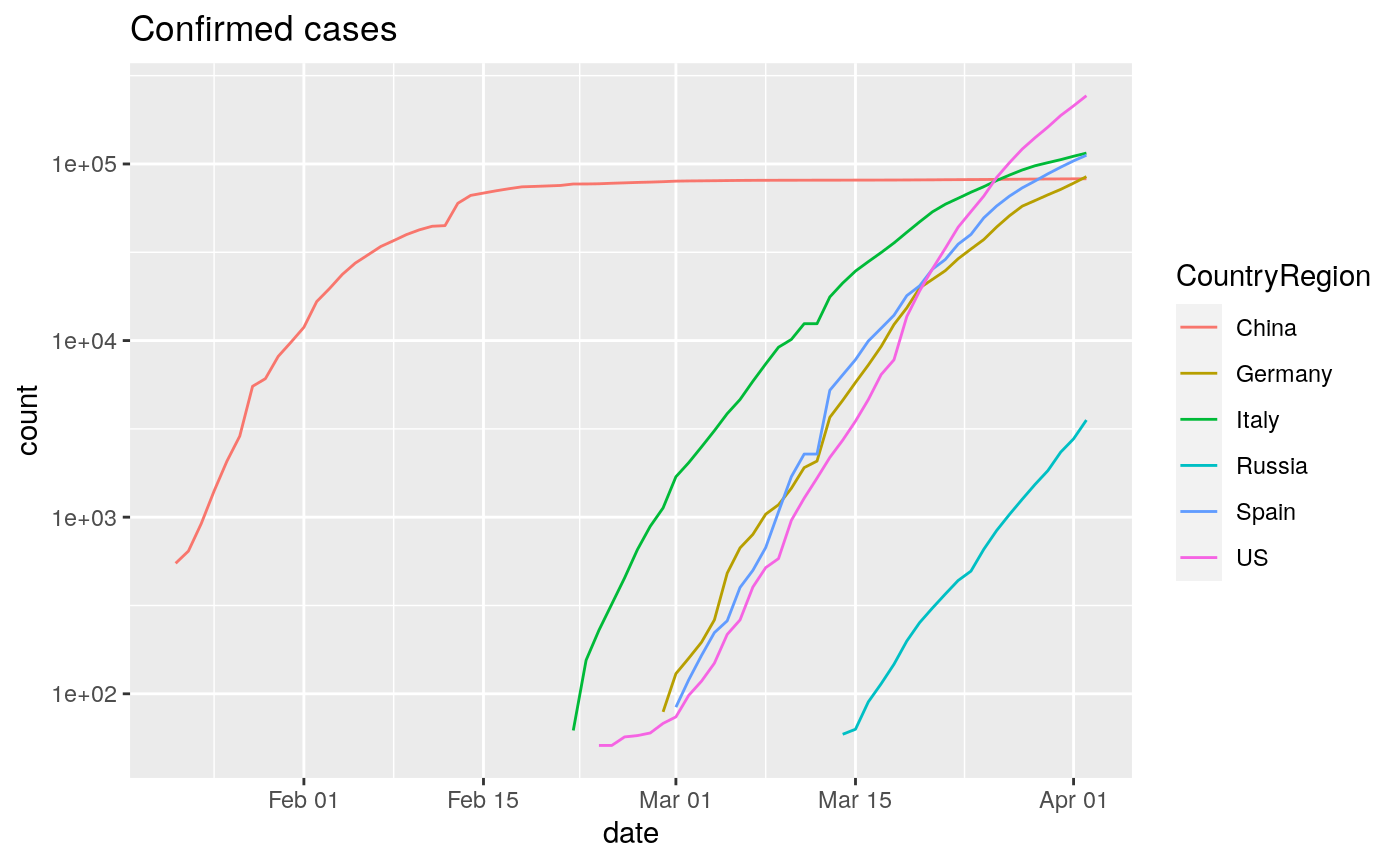
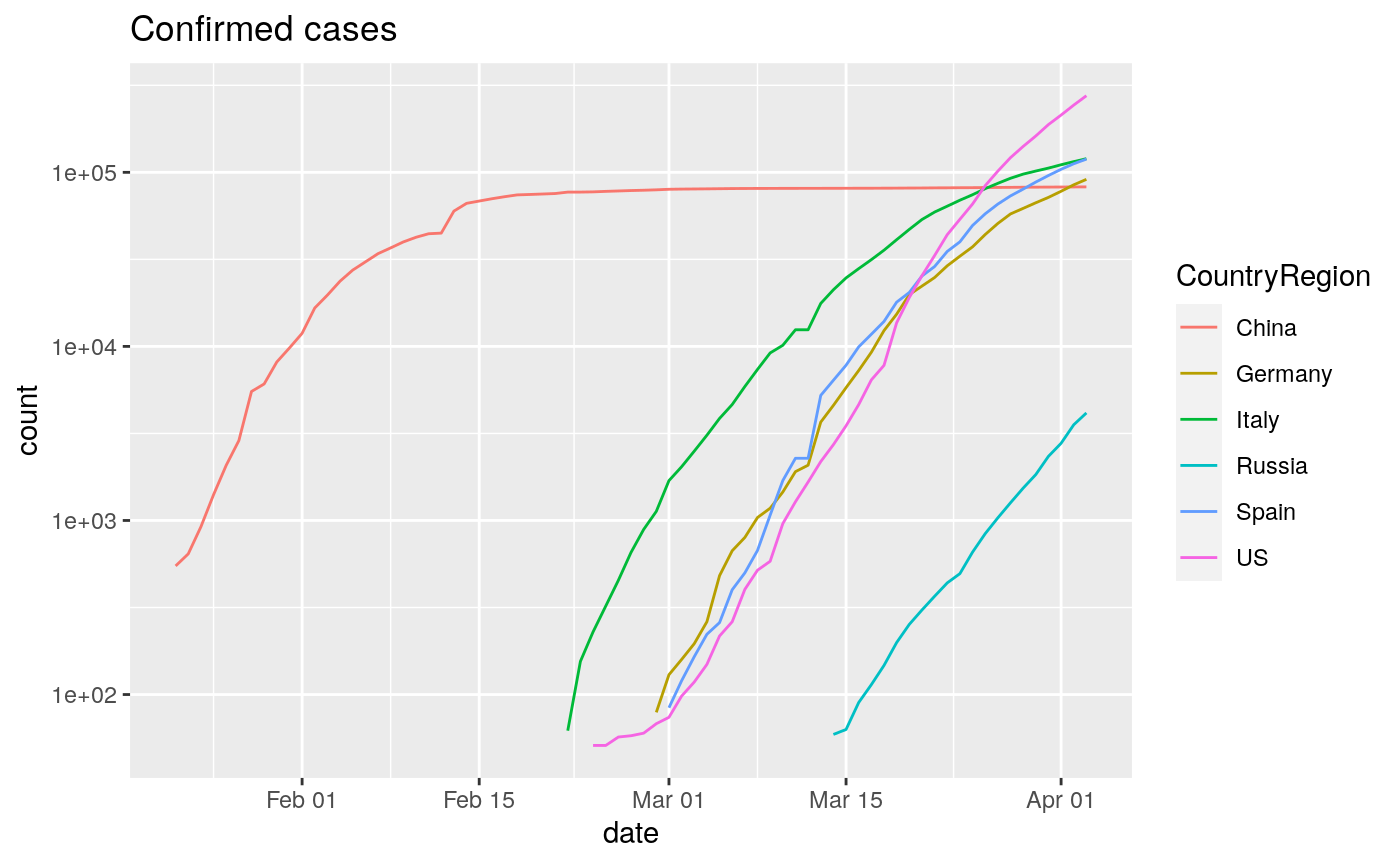
Deploying to gh-pages from  @ 26e2b4216f10156cb2ab0a62c18fc1f13a253ff0 🚀

diff --git a/articles/sars2pack.html b/articles/sars2pack.html
@@ -86,7 +86,7 @@
       <h1 data-toc-skip>Exploring the COVID-19 pandemic using sars2pack</h1>
                         <h4 class="author">Sean Davis <a href="mailto:seandavi@gmail.com" class="email">seandavi@gmail.com</a> and Vincent J. Carey, stvjc at channing.harvard.edu</h4>
             
-            <h4 class="date">April 03, 2020</h4>
+            <h4 class="date">April 04, 2020</h4>
       
       <small class="dont-index">Source: <a href="https://github.com/seandavi/sars2pack/blob/master/vignettes/sars2pack.Rmd"><code>vignettes/sars2pack.Rmd</code></a></small>
       <div class="hidden name"><code>sars2pack.Rmd</code></div>
@@ -163,7 +163,7 @@
 <span class="fu"><a href="https://rdrr.io/r/base/class.html">class</a></span>(<span class="no">jhu</span>)</pre></body></html></div>
 <pre><code>## [1] "tbl_df"     "tbl"        "data.frame"</code></pre>
 <div class="sourceCode" id="cb4"><html><body><pre class="r"><span class="fu"><a href="https://rdrr.io/r/base/dim.html">dim</a></span>(<span class="no">jhu</span>)</pre></body></html></div>
-<pre><code>## [1] 37152     7</code></pre>
+<pre><code>## [1] 37668     7</code></pre>
 <p>Column names include:</p>
 <div class="sourceCode" id="cb6"><html><body><pre class="r"><span class="fu"><a href="https://rdrr.io/r/base/colnames.html">colnames</a></span>(<span class="no">jhu</span>)</pre></body></html></div>
 <pre><code>## [1] "ProvinceState" "CountryRegion" "Lat"           "Long"         
@@ -181,7 +181,7 @@
 <h3 class="hasAnchor">
 <a href="#usafacts-dataset" class="anchor"></a>USAFacts Dataset</h3>
 <div class="sourceCode" id="cb10"><html><body><pre class="r"><span class="no">usa_facts</span> <span class="kw">=</span> <span class="fu"><a href="../reference/usa_facts_data.html">usa_facts_data</a></span>()</pre></body></html></div>
-<pre><code>## using temporary cache /tmp/RtmpwNfukO/BiocFileCache</code></pre>
+<pre><code>## using temporary cache /tmp/RtmpvPbylS/BiocFileCache</code></pre>
 <div class="sourceCode" id="cb12"><html><body><pre class="r"><span class="fu"><a href="https://rdrr.io/r/base/class.html">class</a></span>(<span class="no">usa_facts</span>)</pre></body></html></div>
 <pre><code>## [1] "tbl_df"     "tbl"        "data.frame"</code></pre>
 <div class="sourceCode" id="cb14"><html><body><pre class="r"><span class="fu"><a href="https://rdrr.io/r/base/dim.html">dim</a></span>(<span class="no">usa_facts</span>)</pre></body></html></div>
@@ -249,7 +249,7 @@
 <li><strong>How many records are in the dataset?</strong></li>
 </ul>
 <div class="sourceCode" id="cb36"><html><body><pre class="r"><span class="fu"><a href="https://rdrr.io/r/base/nrow.html">nrow</a></span>(<span class="no">jhu</span>)</pre></body></html></div>
-<pre><code>## [1] 37152</code></pre>
+<pre><code>## [1] 37668</code></pre>
 <ul>
 <li><strong>How many different countries are represented?</strong></li>
 </ul>
@@ -290,8 +290,8 @@
     <span class="kw pkg">dplyr</span><span class="kw ns">::</span><span class="fu"><a href="https://dplyr.tidyverse.org/reference/slice.html">slice</a></span>(<span class="fu"><a href="https://rdrr.io/r/base/which.min.html">which.max</a></span>(<span class="no">date</span>)) <span class="kw">%&gt;%</span>
     <span class="kw pkg">dplyr</span><span class="kw ns">::</span><span class="fu"><a href="https://dplyr.tidyverse.org/reference/arrange.html">arrange</a></span>(<span class="fu">desc</span>(<span class="no">count</span>))
 <span class="kw pkg">DT</span><span class="kw ns">::</span><span class="fu"><a href="https://rdrr.io/pkg/DT/man/datatable.html">datatable</a></span>(<span class="no">latest_jhu_data</span>, <span class="kw">rownames</span><span class="kw">=</span><span class="fl">FALSE</span>)</pre></body></html></div>
-<div id="htmlwidget-e5f8c7830f0485213b5e" style="width:100%;height:auto;" class="datatables html-widget"></div>
-<script type="application/json" data-for="htmlwidget-e5f8c7830f0485213b5e">{"x":{"filter":"none","data":[[null,null,null,null,null,null,null,null,null,null,null,null,null,null,null,null,null,null,null,null,null,null,null,null,null,null,null,null,null,null,null,null,null,null,null,null,null,null,null,null,null,null,null,null,null,null,null,null,null,null,null,null,null,null,null,null,null,null,null,null,null,null,null,null,null,null,null,null,null,null,null,null,null,null,null,null,null,null,null,null,null,null,null,null,null,null,null,null,null,null,null,null,null,null,null,null,null,null,null,null,null,null,null,null,null,null,null,null,null,null,null,null,null,null,null,null,null,null,null,null,null,null,null,null,null,null,null,null,null,null,null,null,null,null,null,null,null,null,null,null,null,null,null,null,null,null,null,null,null,null,null,null,null,null,null,null,null,null,null,null,null,null,null,null,null,null,null,null,null,null,null,null,null,null,null,null,null,null],["US","Italy","Spain","Germany","France","Iran","United Kingdom","Switzerland","Turkey","Belgium","Netherlands","Austria","Korea, South","Portugal","Brazil","Israel","Sweden","Norway","Czechia","Ireland","Russia","Chile","Denmark","Ecuador","Malaysia","Poland","Romania","Philippines","India","Japan","Luxembourg","Pakistan","Saudi Arabia","Thailand","Indonesia","Greece","Finland","South Africa","Peru","Dominican Republic","Mexico","Iceland","Panama","Serbia","Colombia","Argentina","Singapore","United Arab Emirates","Croatia","Algeria","Qatar","Slovenia","Ukraine","Egypt","Estonia","New Zealand","Iraq","Diamond Princess","Morocco","Armenia","Lithuania","Bahrain","Hungary","Bosnia and Herzegovina","Moldova","Lebanon","Latvia","Bulgaria","Tunisia","Kazakhstan","Andorra","Slovakia","Azerbaijan","Costa Rica","North Macedonia","Cyprus","Uruguay","Kuwait","Taiwan*","Cameroon","Belarus","Jordan","Burkina Faso","Albania","Afghanistan","San Marino","Cuba","Vietnam","Oman","Honduras","Uzbekistan","Ghana","Malta","Senegal","Cote d'Ivoire","Nigeria","Mauritius","West Bank and Gaza","Sri Lanka","Venezuela","Montenegro","Congo (Kinshasa)","Georgia","Brunei","Kosovo","Bolivia","Kyrgyzstan","Cambodia","Kenya","Niger","Trinidad and Tobago","Rwanda","Paraguay","Liechtenstein","Monaco","Madagascar","Bangladesh","Guinea","Guatemala","Jamaica","Barbados","Uganda","El Salvador","Djibouti","Togo","Zambia","Mali","Ethiopia","Bahamas","Congo (Brazzaville)","Eritrea","Gabon","Burma","Tanzania","Guyana","Maldives","Haiti","Syria","Equatorial Guinea","Mongolia","Namibia","Benin","Saint Lucia","Dominica","Libya","Grenada","Laos","Mozambique","Seychelles","Suriname","Antigua and Barbuda","Eswatini","Guinea-Bissau","MS Zaandam","Saint Kitts and Nevis","Zimbabwe","Angola","Chad","Sudan","Fiji","Holy See","Cabo Verde","Liberia","Mauritania","Nepal","Bhutan","Nicaragua","Somalia","Botswana","Gambia","Belize","Burundi","Central African Republic","Malawi","Saint Vincent and the Grenadines","Sierra Leone","Papua New Guinea","Timor-Leste"],[37.0902,43,40,51,46.2276,32,55.3781,46.8182,38.9637,50.8333,52.1326,47.5162,36,39.3999,-14.235,31,63,60.472,49.8175,53.1424,60,-35.6751,56.2639,-1.8312,2.5,51.9194,45.9432,13,21,36,49.8153,30.3753,24,15,-0.7893,39.0742,64,-30.5595,-9.19,18.7357,23.6345,64.9631,8.538,44.0165,4.5709,-38.4161,1.2833,24,45.1,28.0339,25.3548,46.1512,48.3794,26,58.5953,-40.9006,33,0,31.7917,40.0691,55.1694,26.0275,47.1625,43.9159,47.4116,33.8547,56.8796,42.7339,34,48.0196,42.5063,48.669,40.1431,9.7489,41.6086,35.1264,-32.5228,29.5,23.7,3.848,53.7098,31.24,12.2383,41.1533,33,43.9424,22,16,21,15.2,41.3775,7.9465,35.9375,14.4974,7.54,9.082,-20.2,31.9522,7,6.4238,42.5,-4.0383,42.3154,4.5353,42.602636,-16.2902,41.2044,11.55,-0.0236,17.6078,10.6918,-1.9403,-23.4425,47.14,43.7333,-18.7669,23.685,9.9456,15.7835,18.1096,13.1939,1,13.7942,11.8251,8.6195,-15.4167,17.570692,9.145,25.0343,-4.0383,15.1794,-0.8037,21.9162,-6.369,5,3.2028,18.9712,34.802075,1.5,46.8625,-22.9576,9.3077,13.9094,15.415,26.3351,12.1165,19.85627,-18.665695,-4.6796,3.9193,17.0608,-26.5225,11.8037,0,17.357822,-20,-11.2027,15.4542,12.8628,-17.7134,41.9029,16.5388,6.4281,21.0079,28.1667,27.5142,12.8654,5.1521,-22.3285,13.4432,13.1939,-3.3731,6.6111,-13.254308,12.9843,8.460555,-6.315,-8.874217],[-95.7129,12,-4,9,2.2137,53,-3.436,8.2275,35.2433,4,5.2913,14.5501,128,-8.2245,-51.9253,35,16,8.4689,15.473,-7.6921,90,-71.543,9.5018,-78.1834,112.5,19.1451,24.9668,122,78,138,6.1296,69.3451,45,101,113.9213,21.8243,26,22.9375,-75.0152,-70.1627,-102.5528,-19.0208,-80.7821,21.0059,-74.2973,-63.6167,103.8333,54,15.2,1.6596,51.1839,14.9955,31.1656,30,25.0136,174.886,44,0,-7.0926,45.0382,23.8813,50.55,19.5033,17.6791,28.3699,35.8623,24.6032,25.4858,9,66.9237,1.5218,19.699,47.5769,-83.7534,21.7453,33.4299,-55.7658,47.75,121,11.5021,27.9534,36.51,-1.5616,20.1683,65,12.4578,-80,108,57,-86.2419,64.5853,-1.0232,14.3754,-14.4524,-5.5471,8.6753,57.5,35.2332,81,-66.5897,19.3,21.7587,43.3569,114.7277,20.902977,-63.5887,74.7661,104.9167,37.9062,8.0817,-61.2225,29.8739,-58.4438,9.55,7.4167,46.8691,90.3563,-9.6966,-90.2308,-77.2975,-59.5432,32,-88.8965,42.5903,0.8248,28.2833,-3.996166,40.4897,-77.3963,21.7587,39.7823,11.6094,95.956,34.8888,-58.75,73.2207,-72.2852,38.996815,10,103.8467,18.4904,2.3158,-60.9789,-61.371,17.228331,-61.679,102.495496,35.529562,55.492,-56.0278,-61.7964,31.4659,-15.1804,0,-62.782998,30,17.8739,18.7322,30.2176,178.065,12.4534,-23.0418,-9.4295,10.9408,84.25,90.4336,-85.2072,46.1996,24.6849,-15.3101,-59.5432,29.9189,20.9394,34.301525,-61.2872,-11.779889,143.9555,125.727539],["2020-04-02","2020-04-02","2020-04-02","2020-04-02","2020-04-02","2020-04-02","2020-04-02","2020-04-02","2020-04-02","2020-04-02","2020-04-02","2020-04-02","2020-04-02","2020-04-02","2020-04-02","2020-04-02","2020-04-02","2020-04-02","2020-04-02","2020-04-02","2020-04-02","2020-04-02","2020-04-02","2020-04-02","2020-04-02","2020-04-02","2020-04-02","2020-04-02","2020-04-02","2020-04-02","2020-04-02","2020-04-02","2020-04-02","2020-04-02","2020-04-02","2020-04-02","2020-04-02","2020-04-02","2020-04-02","2020-04-02","2020-04-02","2020-04-02","2020-04-02","2020-04-02","2020-04-02","2020-04-02","2020-04-02","2020-04-02","2020-04-02","2020-04-02","2020-04-02","2020-04-02","2020-04-02","2020-04-02","2020-04-02","2020-04-02","2020-04-02","2020-04-02","2020-04-02","2020-04-02","2020-04-02","2020-04-02","2020-04-02","2020-04-02","2020-04-02","2020-04-02","2020-04-02","2020-04-02","2020-04-02","2020-04-02","2020-04-02","2020-04-02","2020-04-02","2020-04-02","2020-04-02","2020-04-02","2020-04-02","2020-04-02","2020-04-02","2020-04-02","2020-04-02","2020-04-02","2020-04-02","2020-04-02","2020-04-02","2020-04-02","2020-04-02","2020-04-02","2020-04-02","2020-04-02","2020-04-02","2020-04-02","2020-04-02","2020-04-02","2020-04-02","2020-04-02","2020-04-02","2020-04-02","2020-04-02","2020-04-02","2020-04-02","2020-04-02","2020-04-02","2020-04-02","2020-04-02","2020-04-02","2020-04-02","2020-04-02","2020-04-02","2020-04-02","2020-04-02","2020-04-02","2020-04-02","2020-04-02","2020-04-02","2020-04-02","2020-04-02","2020-04-02","2020-04-02","2020-04-02","2020-04-02","2020-04-02","2020-04-02","2020-04-02","2020-04-02","2020-04-02","2020-04-02","2020-04-02","2020-04-02","2020-04-02","2020-04-02","2020-04-02","2020-04-02","2020-04-02","2020-04-02","2020-04-02","2020-04-02","2020-04-02","2020-04-02","2020-04-02","2020-04-02","2020-04-02","2020-04-02","2020-04-02","2020-04-02","2020-04-02","2020-04-02","2020-04-02","2020-04-02","2020-04-02","2020-04-02","2020-04-02","2020-04-02","2020-04-02","2020-04-02","2020-04-02","2020-04-02","2020-04-02","2020-04-02","2020-04-02","2020-04-02","2020-04-02","2020-04-02","2020-04-02","2020-04-02","2020-04-02","2020-04-02","2020-04-02","2020-04-02","2020-04-02","2020-04-02","2020-04-02","2020-04-02","2020-04-02","2020-04-02","2020-04-02","2020-04-02","2020-04-02"],[243453,115242,112065,84794,59105,50468,33718,18827,18135,15348,14697,11129,9976,9034,8044,6857,5568,5147,3858,3849,3548,3404,3386,3163,3116,2946,2738,2633,2543,2495,2487,2421,1885,1875,1790,1544,1518,1462,1414,1380,1378,1319,1317,1171,1161,1133,1049,1024,1011,986,949,897,897,865,858,797,772,712,708,663,649,643,585,533,505,494,458,457,455,435,428,426,400,396,384,356,350,342,339,306,304,299,288,277,273,245,233,233,231,219,205,204,196,195,194,184,169,161,151,146,144,134,134,133,125,123,116,110,110,98,94,84,77,75,60,59,56,52,47,47,46,45,41,40,39,39,36,29,24,22,22,21,20,20,19,19,16,16,15,14,14,13,13,12,11,10,10,10,10,10,9,9,9,9,9,9,8,8,8,7,7,6,6,6,6,5,5,5,4,4,3,3,3,3,2,2,1,1],["confirmed","confirmed","confirmed","confirmed","confirmed","confirmed","confirmed","confirmed","confirmed","confirmed","confirmed","confirmed","confirmed","confirmed","confirmed","confirmed","confirmed","confirmed","confirmed","confirmed","confirmed","confirmed","confirmed","confirmed","confirmed","confirmed","confirmed","confirmed","confirmed","confirmed","confirmed","confirmed","confirmed","confirmed","confirmed","confirmed","confirmed","confirmed","confirmed","confirmed","confirmed","confirmed","confirmed","confirmed","confirmed","confirmed","confirmed","confirmed","confirmed","confirmed","confirmed","confirmed","confirmed","confirmed","confirmed","confirmed","confirmed","confirmed","confirmed","confirmed","confirmed","confirmed","confirmed","confirmed","confirmed","confirmed","confirmed","confirmed","confirmed","confirmed","confirmed","confirmed","confirmed","confirmed","confirmed","confirmed","confirmed","confirmed","confirmed","confirmed","confirmed","confirmed","confirmed","confirmed","confirmed","confirmed","confirmed","confirmed","confirmed","confirmed","confirmed","confirmed","confirmed","confirmed","confirmed","confirmed","confirmed","confirmed","confirmed","confirmed","confirmed","confirmed","confirmed","confirmed","confirmed","confirmed","confirmed","confirmed","confirmed","confirmed","confirmed","confirmed","confirmed","confirmed","confirmed","confirmed","confirmed","confirmed","confirmed","confirmed","confirmed","confirmed","confirmed","confirmed","confirmed","confirmed","confirmed","confirmed","confirmed","confirmed","confirmed","confirmed","confirmed","confirmed","confirmed","confirmed","confirmed","confirmed","confirmed","confirmed","confirmed","confirmed","confirmed","confirmed","confirmed","confirmed","confirmed","confirmed","confirmed","confirmed","confirmed","confirmed","confirmed","confirmed","confirmed","confirmed","confirmed","confirmed","confirmed","confirmed","confirmed","confirmed","confirmed","confirmed","confirmed","confirmed","confirmed","confirmed","confirmed","confirmed","confirmed","confirmed","confirmed","confirmed","confirmed","confirmed","confirmed","confirmed"]],"container":"<table class=\"display\">\n  <thead>\n    <tr>\n      <th>ProvinceState<\/th>\n      <th>CountryRegion<\/th>\n      <th>Lat<\/th>\n      <th>Long<\/th>\n      <th>date<\/th>\n      <th>count<\/th>\n      <th>subset<\/th>\n    <\/tr>\n  <\/thead>\n<\/table>","options":{"columnDefs":[{"className":"dt-right","targets":[2,3,5]}],"order":[],"autoWidth":false,"orderClasses":false}},"evals":[],"jsHooks":[]}</script><p><strong>Note</strong>: I included a little <code>is.na</code> in the filtering above to remove records where country data are split out over subparts. We revisit this below.</p>
+<div id="htmlwidget-0f96d4941d1d04556232" style="width:100%;height:auto;" class="datatables html-widget"></div>
+<script type="application/json" data-for="htmlwidget-0f96d4941d1d04556232">{"x":{"filter":"none","data":[[null,null,null,null,null,null,null,null,null,null,null,null,null,null,null,null,null,null,null,null,null,null,null,null,null,null,null,null,null,null,null,null,null,null,null,null,null,null,null,null,null,null,null,null,null,null,null,null,null,null,null,null,null,null,null,null,null,null,null,null,null,null,null,null,null,null,null,null,null,null,null,null,null,null,null,null,null,null,null,null,null,null,null,null,null,null,null,null,null,null,null,null,null,null,null,null,null,null,null,null,null,null,null,null,null,null,null,null,null,null,null,null,null,null,null,null,null,null,null,null,null,null,null,null,null,null,null,null,null,null,null,null,null,null,null,null,null,null,null,null,null,null,null,null,null,null,null,null,null,null,null,null,null,null,null,null,null,null,null,null,null,null,null,null,null,null,null,null,null,null,null,null,null,null,null,null,null,null],["US","Italy","Spain","Germany","France","Iran","United Kingdom","Turkey","Switzerland","Belgium","Netherlands","Austria","Korea, South","Portugal","Brazil","Israel","Sweden","Norway","Ireland","Russia","Czechia","Denmark","Chile","Poland","Ecuador","Malaysia","Romania","Philippines","Pakistan","Japan","Luxembourg","India","Saudi Arabia","Indonesia","Thailand","Finland","Greece","Peru","Mexico","South Africa","Dominican Republic","Serbia","Panama","Iceland","Colombia","Argentina","United Arab Emirates","Algeria","Singapore","Croatia","Qatar","Ukraine","Egypt","Estonia","Slovenia","New Zealand","Iraq","Morocco","Armenia","Diamond Princess","Lithuania","Bahrain","Hungary","Moldova","Bosnia and Herzegovina","Cameroon","Lebanon","Tunisia","Latvia","Bulgaria","Kazakhstan","Slovakia","Azerbaijan","Andorra","North Macedonia","Kuwait","Costa Rica","Cyprus","Uruguay","Belarus","Taiwan*","Jordan","Albania","Burkina Faso","Afghanistan","Cuba","Oman","San Marino","Vietnam","Uzbekistan","Honduras","Cote d'Ivoire","Nigeria","Senegal","Ghana","Malta","West Bank and Gaza","Mauritius","Montenegro","Sri Lanka","Georgia","Venezuela","Brunei","Congo (Kinshasa)","Bolivia","Kyrgyzstan","Kosovo","Kenya","Niger","Cambodia","Trinidad and Tobago","Paraguay","Rwanda","Liechtenstein","Guinea","Madagascar","Monaco","Bangladesh","Barbados","Guatemala","Djibouti","Uganda","Jamaica","El Salvador","Togo","Mali","Zambia","Ethiopia","Bahamas","Guyana","Congo (Brazzaville)","Eritrea","Gabon","Burma","Tanzania","Maldives","Haiti","Benin","Equatorial Guinea","Syria","Antigua and Barbuda","Guinea-Bissau","Mongolia","Namibia","Saint Lucia","Dominica","Grenada","Libya","Laos","Mozambique","Seychelles","Sudan","Suriname","Eswatini","MS Zaandam","Saint Kitts and Nevis","Zimbabwe","Angola","Central African Republic","Chad","Fiji","Holy See","Liberia","Somalia","Cabo Verde","Mauritania","Nepal","Bhutan","Nicaragua","Belize","Botswana","Gambia","Burundi","Malawi","Saint Vincent and the Grenadines","Sierra Leone","Papua New Guinea","Timor-Leste"],[37.0902,43,40,51,46.2276,32,55.3781,38.9637,46.8182,50.8333,52.1326,47.5162,36,39.3999,-14.235,31,63,60.472,53.1424,60,49.8175,56.2639,-35.6751,51.9194,-1.8312,2.5,45.9432,13,30.3753,36,49.8153,21,24,-0.7893,15,64,39.0742,-9.19,23.6345,-30.5595,18.7357,44.0165,8.538,64.9631,4.5709,-38.4161,24,28.0339,1.2833,45.1,25.3548,48.3794,26,58.5953,46.1512,-40.9006,33,31.7917,40.0691,0,55.1694,26.0275,47.1625,47.4116,43.9159,3.848,33.8547,34,56.8796,42.7339,48.0196,48.669,40.1431,42.5063,41.6086,29.5,9.7489,35.1264,-32.5228,53.7098,23.7,31.24,41.1533,12.2383,33,22,21,43.9424,16,41.3775,15.2,7.54,9.082,14.4974,7.9465,35.9375,31.9522,-20.2,42.5,7,42.3154,6.4238,4.5353,-4.0383,-16.2902,41.2044,42.602636,-0.0236,17.6078,11.55,10.6918,-23.4425,-1.9403,47.14,9.9456,-18.7669,43.7333,23.685,13.1939,15.7835,11.8251,1,18.1096,13.7942,8.6195,17.570692,-15.4167,9.145,25.0343,5,-4.0383,15.1794,-0.8037,21.9162,-6.369,3.2028,18.9712,9.3077,1.5,34.802075,17.0608,11.8037,46.8625,-22.9576,13.9094,15.415,12.1165,26.3351,19.85627,-18.665695,-4.6796,12.8628,3.9193,-26.5225,0,17.357822,-20,-11.2027,6.6111,15.4542,-17.7134,41.9029,6.4281,5.1521,16.5388,21.0079,28.1667,27.5142,12.8654,13.1939,-22.3285,13.4432,-3.3731,-13.254308,12.9843,8.460555,-6.315,-8.874217],[-95.7129,12,-4,9,2.2137,53,-3.436,35.2433,8.2275,4,5.2913,14.5501,128,-8.2245,-51.9253,35,16,8.4689,-7.6921,90,15.473,9.5018,-71.543,19.1451,-78.1834,112.5,24.9668,122,69.3451,138,6.1296,78,45,113.9213,101,26,21.8243,-75.0152,-102.5528,22.9375,-70.1627,21.0059,-80.7821,-19.0208,-74.2973,-63.6167,54,1.6596,103.8333,15.2,51.1839,31.1656,30,25.0136,14.9955,174.886,44,-7.0926,45.0382,0,23.8813,50.55,19.5033,28.3699,17.6791,11.5021,35.8623,9,24.6032,25.4858,66.9237,19.699,47.5769,1.5218,21.7453,47.75,-83.7534,33.4299,-55.7658,27.9534,121,36.51,20.1683,-1.5616,65,-80,57,12.4578,108,64.5853,-86.2419,-5.5471,8.6753,-14.4524,-1.0232,14.3754,35.2332,57.5,19.3,81,43.3569,-66.5897,114.7277,21.7587,-63.5887,74.7661,20.902977,37.9062,8.0817,104.9167,-61.2225,-58.4438,29.8739,9.55,-9.6966,46.8691,7.4167,90.3563,-59.5432,-90.2308,42.5903,32,-77.2975,-88.8965,0.8248,-3.996166,28.2833,40.4897,-77.3963,-58.75,21.7587,39.7823,11.6094,95.956,34.8888,73.2207,-72.2852,2.3158,10,38.996815,-61.7964,-15.1804,103.8467,18.4904,-60.9789,-61.371,-61.679,17.228331,102.495496,35.529562,55.492,30.2176,-56.0278,31.4659,0,-62.782998,30,17.8739,20.9394,18.7322,178.065,12.4534,-9.4295,46.1996,-23.0418,10.9408,84.25,90.4336,-85.2072,-59.5432,24.6849,-15.3101,29.9189,34.301525,-61.2872,-11.779889,143.9555,125.727539],["2020-04-03","2020-04-03","2020-04-03","2020-04-03","2020-04-03","2020-04-03","2020-04-03","2020-04-03","2020-04-03","2020-04-03","2020-04-03","2020-04-03","2020-04-03","2020-04-03","2020-04-03","2020-04-03","2020-04-03","2020-04-03","2020-04-03","2020-04-03","2020-04-03","2020-04-03","2020-04-03","2020-04-03","2020-04-03","2020-04-03","2020-04-03","2020-04-03","2020-04-03","2020-04-03","2020-04-03","2020-04-03","2020-04-03","2020-04-03","2020-04-03","2020-04-03","2020-04-03","2020-04-03","2020-04-03","2020-04-03","2020-04-03","2020-04-03","2020-04-03","2020-04-03","2020-04-03","2020-04-03","2020-04-03","2020-04-03","2020-04-03","2020-04-03","2020-04-03","2020-04-03","2020-04-03","2020-04-03","2020-04-03","2020-04-03","2020-04-03","2020-04-03","2020-04-03","2020-04-03","2020-04-03","2020-04-03","2020-04-03","2020-04-03","2020-04-03","2020-04-03","2020-04-03","2020-04-03","2020-04-03","2020-04-03","2020-04-03","2020-04-03","2020-04-03","2020-04-03","2020-04-03","2020-04-03","2020-04-03","2020-04-03","2020-04-03","2020-04-03","2020-04-03","2020-04-03","2020-04-03","2020-04-03","2020-04-03","2020-04-03","2020-04-03","2020-04-03","2020-04-03","2020-04-03","2020-04-03","2020-04-03","2020-04-03","2020-04-03","2020-04-03","2020-04-03","2020-04-03","2020-04-03","2020-04-03","2020-04-03","2020-04-03","2020-04-03","2020-04-03","2020-04-03","2020-04-03","2020-04-03","2020-04-03","2020-04-03","2020-04-03","2020-04-03","2020-04-03","2020-04-03","2020-04-03","2020-04-03","2020-04-03","2020-04-03","2020-04-03","2020-04-03","2020-04-03","2020-04-03","2020-04-03","2020-04-03","2020-04-03","2020-04-03","2020-04-03","2020-04-03","2020-04-03","2020-04-03","2020-04-03","2020-04-03","2020-04-03","2020-04-03","2020-04-03","2020-04-03","2020-04-03","2020-04-03","2020-04-03","2020-04-03","2020-04-03","2020-04-03","2020-04-03","2020-04-03","2020-04-03","2020-04-03","2020-04-03","2020-04-03","2020-04-03","2020-04-03","2020-04-03","2020-04-03","2020-04-03","2020-04-03","2020-04-03","2020-04-03","2020-04-03","2020-04-03","2020-04-03","2020-04-03","2020-04-03","2020-04-03","2020-04-03","2020-04-03","2020-04-03","2020-04-03","2020-04-03","2020-04-03","2020-04-03","2020-04-03","2020-04-03","2020-04-03","2020-04-03","2020-04-03","2020-04-03","2020-04-03","2020-04-03","2020-04-03","2020-04-03","2020-04-03"],[275586,119827,119199,91159,64338,53183,38168,20921,19606,16770,15723,11524,10062,9886,9056,7428,6131,5370,4273,4149,4091,3757,3737,3383,3368,3333,3183,3018,2686,2617,2612,2567,2039,1986,1978,1615,1613,1595,1510,1505,1488,1476,1475,1364,1267,1265,1264,1171,1114,1079,1075,1072,985,961,934,868,820,791,736,712,696,672,623,591,579,509,508,495,493,485,464,450,443,439,430,417,416,396,369,351,348,310,304,302,281,269,252,245,237,227,222,218,210,207,205,202,194,186,174,159,155,153,134,134,132,130,126,122,120,114,98,92,89,75,73,70,64,61,51,50,49,48,47,46,40,39,39,35,24,23,22,22,21,20,20,19,18,16,16,16,15,15,14,14,13,12,12,11,10,10,10,10,10,9,9,9,9,8,8,8,7,7,7,7,6,6,6,5,5,4,4,4,3,3,3,2,1,1],["confirmed","confirmed","confirmed","confirmed","confirmed","confirmed","confirmed","confirmed","confirmed","confirmed","confirmed","confirmed","confirmed","confirmed","confirmed","confirmed","confirmed","confirmed","confirmed","confirmed","confirmed","confirmed","confirmed","confirmed","confirmed","confirmed","confirmed","confirmed","confirmed","confirmed","confirmed","confirmed","confirmed","confirmed","confirmed","confirmed","confirmed","confirmed","confirmed","confirmed","confirmed","confirmed","confirmed","confirmed","confirmed","confirmed","confirmed","confirmed","confirmed","confirmed","confirmed","confirmed","confirmed","confirmed","confirmed","confirmed","confirmed","confirmed","confirmed","confirmed","confirmed","confirmed","confirmed","confirmed","confirmed","confirmed","confirmed","confirmed","confirmed","confirmed","confirmed","confirmed","confirmed","confirmed","confirmed","confirmed","confirmed","confirmed","confirmed","confirmed","confirmed","confirmed","confirmed","confirmed","confirmed","confirmed","confirmed","confirmed","confirmed","confirmed","confirmed","confirmed","confirmed","confirmed","confirmed","confirmed","confirmed","confirmed","confirmed","confirmed","confirmed","confirmed","confirmed","confirmed","confirmed","confirmed","confirmed","confirmed","confirmed","confirmed","confirmed","confirmed","confirmed","confirmed","confirmed","confirmed","confirmed","confirmed","confirmed","confirmed","confirmed","confirmed","confirmed","confirmed","confirmed","confirmed","confirmed","confirmed","confirmed","confirmed","confirmed","confirmed","confirmed","confirmed","confirmed","confirmed","confirmed","confirmed","confirmed","confirmed","confirmed","confirmed","confirmed","confirmed","confirmed","confirmed","confirmed","confirmed","confirmed","confirmed","confirmed","confirmed","confirmed","confirmed","confirmed","confirmed","confirmed","confirmed","confirmed","confirmed","confirmed","confirmed","confirmed","confirmed","confirmed","confirmed","confirmed","confirmed","confirmed","confirmed","confirmed","confirmed","confirmed","confirmed","confirmed","confirmed","confirmed","confirmed"]],"container":"<table class=\"display\">\n  <thead>\n    <tr>\n      <th>ProvinceState<\/th>\n      <th>CountryRegion<\/th>\n      <th>Lat<\/th>\n      <th>Long<\/th>\n      <th>date<\/th>\n      <th>count<\/th>\n      <th>subset<\/th>\n    <\/tr>\n  <\/thead>\n<\/table>","options":{"columnDefs":[{"className":"dt-right","targets":[2,3,5]}],"order":[],"autoWidth":false,"orderClasses":false}},"evals":[],"jsHooks":[]}</script><p><strong>Note</strong>: I included a little <code>is.na</code> in the filtering above to remove records where country data are split out over subparts. We revisit this below.</p>
 <p>The data here could be usefully displayed as a graph as well.</p>
 <div class="sourceCode" id="cb43"><html><body><pre class="r"><span class="fu"><a href="https://rdrr.io/r/graphics/par.html">par</a></span>(<span class="kw">las</span><span class="kw">=</span><span class="fl">2</span>, <span class="kw">mar</span><span class="kw">=</span><span class="fu"><a href="https://rdrr.io/r/base/c.html">c</a></span>(<span class="fl">8</span>,<span class="fl">5</span>,<span class="fl">5</span>,<span class="fl">1</span>))
 <span class="fu"><a href="https://rdrr.io/r/graphics/barplot.html">barplot</a></span>(<span class="no">count</span> ~ <span class="no">CountryRegion</span>, <span class="kw">xlab</span> <span class="kw">=</span> <span class="st">''</span>,

diff --git a/reference/form_incident_events.html b/reference/form_incident_events.html
@@ -149,14 +149,14 @@
     <pre class="examples"><div class='input'><span class='fu'><a href='https://rdrr.io/r/base/warning.html'>suppressWarnings</a></span>({<span class='no'>dat</span> <span class='kw'>=</span> <span class='fu'><a href='enriched_jhu_data.html'>enriched_jhu_data</a></span>()})
 <span class='no'>cusa</span> <span class='kw'>=</span> <span class='fu'><a href='cumulative_events_ejhu.html'>cumulative_events_ejhu</a></span>(<span class='no'>dat</span>, <span class='kw'>eventtype</span><span class='kw'>=</span><span class='st'>"confirmed"</span>,
  <span class='kw'>alpha3</span><span class='kw'>=</span><span class='st'>"USA"</span>)
-<span class='no'>cusa</span></div><div class='output co'>#&gt; cumulative event data for USA, 2020-01-22 to 2020-04-02 
+<span class='no'>cusa</span></div><div class='output co'>#&gt; cumulative event data for USA, 2020-01-22 to 2020-04-03 
 #&gt; use plot() to visualize.</div><div class='input'><span class='no'>cusa</span> <span class='kw'>=</span> <span class='fu'><a href='trim_from.html'>trim_from</a></span>(<span class='no'>cusa</span>, <span class='st'>"2020-03-01"</span>)
 <span class='no'>iusa</span> <span class='kw'>=</span> <span class='fu'>form_incident_events</span>(<span class='no'>cusa</span>)
 <span class='fu'><a href='https://rdrr.io/r/graphics/plot.html'>plot</a></span>(<span class='no'>iusa</span>)</div><div class='img'><img src='form_incident_events-1.png' alt='' width='700' height='433' /></div><div class='input'><span class='no'>gt</span> <span class='kw'>=</span> <span class='kw pkg'>R0</span><span class='kw ns'>::</span><span class='fu'><a href='https://rdrr.io/pkg/R0/man/generation.time.html'>generation.time</a></span>(<span class='st'>"gamma"</span>, <span class='fu'><a href='https://rdrr.io/r/base/c.html'>c</a></span>(<span class='fl'>3.5</span>, <span class='fl'>4.8</span>))
 <span class='no'>est1</span> <span class='kw'>=</span> <span class='kw pkg'>R0</span><span class='kw ns'>::</span><span class='fu'><a href='https://rdrr.io/pkg/R0/man/estimate.R.html'>estimate.R</a></span>( <span class='no'>iusa</span>$<span class='no'>count</span>, <span class='kw'>GT</span><span class='kw'>=</span><span class='no'>gt</span>,
    <span class='kw'>t</span><span class='kw'>=</span><span class='no'>iusa</span>$<span class='no'>dates</span>, <span class='kw'>begin</span><span class='kw'>=</span><span class='no'>iusa</span>$<span class='no'>dates</span>[<span class='fl'>1</span>], <span class='kw'>end</span><span class='kw'>=</span><span class='no'>iusa</span>$<span class='no'>dates</span>[<span class='fu'><a href='https://rdrr.io/r/base/length.html'>length</a></span>(<span class='no'>iusa</span>$<span class='no'>dates</span>)],
    <span class='kw'>methods</span><span class='kw'>=</span><span class='st'>"EG"</span>)</div><div class='output co'>#&gt; <span class='message'>Waiting for profiling to be done...</span></div><div class='input'><span class='no'>est1</span></div><div class='output co'>#&gt; Reproduction number estimate using  Exponential Growth  method.
-#&gt; R :  1.960674[ 1.95616 , 1.965203 ]
+#&gt; R :  1.913547[ 1.909517 , 1.917588 ]
 #&gt; </div><div class='input'><span class='fu'><a href='plot2.html'>plot2</a></span>(<span class='no'>est1</span>)</div><div class='img'><img src='form_incident_events-2.png' alt='' width='700' height='433' /></div><div class='input'><span class='fu'><a href='plotfit2.html'>plotfit2</a></span>(<span class='no'>est1</span>)</div><div class='img'><img src='form_incident_events-3.png' alt='' width='700' height='433' /></div></pre>
   </div>
   <div class="col-md-3 hidden-xs hidden-sm" id="pkgdown-sidebar">

diff --git a/reference/jhu_data_to_excel.html b/reference/jhu_data_to_excel.html
@@ -181,7 +181,7 @@ an excel format of data to folks more familiar with excel than
 with R.</p>
 
     <h2 class="hasAnchor" id="examples"><a class="anchor" href="#examples"></a>Examples</h2>
-    <pre class="examples"><div class='input'><span class='no'>xls_form</span> <span class='kw'>=</span> <span class='fu'>jhu_data_to_excel</span>()</div><div class='output co'>#&gt; <span class='warning'>Warning: Some values were not matched unambiguously: MS Zaandam</span></div><div class='output co'>#&gt; <span class='warning'>Warning: Some values were not matched unambiguously: MS Zaandam</span></div><div class='input'><span class='fu'><a href='https://rdrr.io/r/base/names.html'>names</a></span>(<span class='no'>xls_form</span>)</div><div class='output co'>#&gt; [1] "confirmed" "deaths"   </div><div class='input'><span class='fu'><a href='https://rdrr.io/r/utils/head.html'>head</a></span>(<span class='no'>xls_form</span><span class='kw'>[[</span><span class='fl'>1</span>]])</div><div class='output co'>#&gt; # A tibble: 6 x 89
+    <pre class="examples"><div class='input'><span class='no'>xls_form</span> <span class='kw'>=</span> <span class='fu'>jhu_data_to_excel</span>()</div><div class='output co'>#&gt; <span class='warning'>Warning: Some values were not matched unambiguously: MS Zaandam</span></div><div class='output co'>#&gt; <span class='warning'>Warning: Some values were not matched unambiguously: MS Zaandam</span></div><div class='input'><span class='fu'><a href='https://rdrr.io/r/base/names.html'>names</a></span>(<span class='no'>xls_form</span>)</div><div class='output co'>#&gt; [1] "confirmed" "deaths"   </div><div class='input'><span class='fu'><a href='https://rdrr.io/r/utils/head.html'>head</a></span>(<span class='no'>xls_form</span><span class='kw'>[[</span><span class='fl'>1</span>]])</div><div class='output co'>#&gt; # A tibble: 6 x 90
 #&gt;   name  topLevelDomain alpha2Code alpha3Code capital region subregion population
 #&gt;   &lt;chr&gt; &lt;list&gt;         &lt;chr&gt;      &lt;chr&gt;      &lt;chr&gt;   &lt;chr&gt;  &lt;chr&gt;          &lt;int&gt;
 #&gt; 1 Afgh… &lt;chr [1]&gt;      AF         AFG        Kabul   Asia   Southern…   27657145
@@ -190,7 +190,7 @@ with R.</p>
 #&gt; 4 Ando… &lt;chr [1]&gt;      AD         AND        Andorr… Europe Southern…      78014
 #&gt; 5 Ango… &lt;chr [1]&gt;      AO         AGO        Luanda  Africa Middle A…   25868000
 #&gt; 6 Anti… &lt;chr [1]&gt;      AG         ATG        Saint … Ameri… Caribbean      86295
-#&gt; # … with 81 more variables: area &lt;dbl&gt;, gini &lt;dbl&gt;, borders &lt;list&gt;,
+#&gt; # … with 82 more variables: area &lt;dbl&gt;, gini &lt;dbl&gt;, borders &lt;list&gt;,
 #&gt; #   numericCode &lt;chr&gt;, cioc &lt;chr&gt;, ProvinceState &lt;chr&gt;, CountryRegion &lt;chr&gt;,
 #&gt; #   Lat &lt;dbl&gt;, Long &lt;dbl&gt;, `2020-01-22` &lt;dbl&gt;, `2020-01-23` &lt;dbl&gt;,
 #&gt; #   `2020-01-24` &lt;dbl&gt;, `2020-01-25` &lt;dbl&gt;, `2020-01-26` &lt;dbl&gt;,
@@ -216,7 +216,7 @@ with R.</p>
 #&gt; #   `2020-03-24` &lt;dbl&gt;, `2020-03-25` &lt;dbl&gt;, `2020-03-26` &lt;dbl&gt;,
 #&gt; #   `2020-03-27` &lt;dbl&gt;, `2020-03-28` &lt;dbl&gt;, `2020-03-29` &lt;dbl&gt;,
 #&gt; #   `2020-03-30` &lt;dbl&gt;, `2020-03-31` &lt;dbl&gt;, `2020-04-01` &lt;dbl&gt;,
-#&gt; #   `2020-04-02` &lt;dbl&gt;</div><div class='input'>
+#&gt; #   `2020-04-02` &lt;dbl&gt;, `2020-04-03` &lt;dbl&gt;</div><div class='input'>
 </div></pre>
   </div>
   <div class="col-md-3 hidden-xs hidden-sm" id="pkgdown-sidebar">

diff --git a/reference/cumulative_events_ejhu.html b/reference/cumulative_events_ejhu.html
@@ -167,7 +167,7 @@
 <span class='no'>cchn</span> <span class='kw'>=</span> <span class='fu'>cumulative_events_ejhu</span>(<span class='no'>dat</span>, <span class='kw'>alpha3</span><span class='kw'>=</span><span class='st'>"CHN"</span>, <span class='kw'>ProvinceStateName</span><span class='kw'>=</span><span class='st'>"Hubei"</span>)
 <span class='no'>ichn</span> <span class='kw'>=</span> <span class='fu'><a href='form_incident_events.html'>form_incident_events</a></span>(<span class='no'>cchn</span>)
 <span class='fu'><a href='https://rdrr.io/r/graphics/plot.html'>plot</a></span>(<span class='no'>cchn</span>$<span class='no'>count</span>[-<span class='fl'>1</span>], <span class='no'>ichn</span>$<span class='no'>count</span>, <span class='kw'>log</span><span class='kw'>=</span><span class='st'>"xy"</span>, <span class='kw'>xlab</span><span class='kw'>=</span><span class='st'>"cumulative"</span>, <span class='kw'>ylab</span><span class='kw'>=</span><span class='st'>"new"</span>,
- <span class='kw'>main</span><span class='kw'>=</span><span class='st'>"Hubei province"</span>) <span class='co'># like https://youtu.be/54XLXg4fYsc</span></div><div class='output co'>#&gt; <span class='warning'>Warning: 17 y values &lt;= 0 omitted from logarithmic plot</span></div><div class='img'><img src='cumulative_events_ejhu-1.png' alt='' width='700' height='433' /></div></pre>
+ <span class='kw'>main</span><span class='kw'>=</span><span class='st'>"Hubei province"</span>) <span class='co'># like https://youtu.be/54XLXg4fYsc</span></div><div class='output co'>#&gt; <span class='warning'>Warning: 18 y values &lt;= 0 omitted from logarithmic plot</span></div><div class='img'><img src='cumulative_events_ejhu-1.png' alt='' width='700' height='433' /></div></pre>
   </div>
   <div class="col-md-3 hidden-xs hidden-sm" id="pkgdown-sidebar">
     <nav id="toc" data-toggle="toc" class="sticky-top">

diff --git a/reference/beoutbreakprepared_data.html b/reference/beoutbreakprepared_data.html
@@ -173,7 +173,7 @@ code of this function and acquire the table manually.</p>
 <code><a href='usa_facts_data.html'>usa_facts_data</a>()</code></p></div>
 
     <h2 class="hasAnchor" id="examples"><a class="anchor" href="#examples"></a>Examples</h2>
-    <pre class="examples"><div class='input'><span class='no'>res</span> <span class='kw'>=</span> <span class='fu'>beoutbreakprepared_data</span>()</div><div class='output co'>#&gt; <span class='message'>using temporary cache /tmp/RtmpbIhfpj/BiocFileCache</span></div><div class='input'><span class='fu'><a href='https://rdrr.io/r/base/colnames.html'>colnames</a></span>(<span class='no'>res</span>)</div><div class='output co'>#&gt;  [1] "ID"                       "age"                     
+    <pre class="examples"><div class='input'><span class='no'>res</span> <span class='kw'>=</span> <span class='fu'>beoutbreakprepared_data</span>()</div><div class='output co'>#&gt; <span class='message'>using temporary cache /tmp/RtmpCkaJyF/BiocFileCache</span></div><div class='input'><span class='fu'><a href='https://rdrr.io/r/base/colnames.html'>colnames</a></span>(<span class='no'>res</span>)</div><div class='output co'>#&gt;  [1] "ID"                       "age"                     
 #&gt;  [3] "sex"                      "city"                    
 #&gt;  [5] "province"                 "country"                 
 #&gt;  [7] "wuhan(0)_not_wuhan(1)"    "latitude"                

diff --git a/reference/enriched_jhu_data.html b/reference/enriched_jhu_data.html
@@ -185,7 +185,7 @@ and <code>recovered</code>.</p>
 #&gt; 6 Afgh… &lt;chr [1]&gt;      AF         AFG        Kabul   Asia   Southern…   27657145
 #&gt; # … with 12 more variables: area &lt;dbl&gt;, gini &lt;dbl&gt;, borders &lt;list&gt;,
 #&gt; #   numericCode &lt;chr&gt;, cioc &lt;chr&gt;, ProvinceState &lt;chr&gt;, CountryRegion &lt;chr&gt;,
-#&gt; #   Lat &lt;dbl&gt;, Long &lt;dbl&gt;, date &lt;date&gt;, count &lt;dbl&gt;, subset &lt;chr&gt;</div><div class='input'><span class='fu'><a href='https://dplyr.tidyverse.org/reference/reexports.html'>glimpse</a></span>(<span class='no'>res</span>)</div><div class='output co'>#&gt; Rows: 37,152
+#&gt; #   Lat &lt;dbl&gt;, Long &lt;dbl&gt;, date &lt;date&gt;, count &lt;dbl&gt;, subset &lt;chr&gt;</div><div class='input'><span class='fu'><a href='https://dplyr.tidyverse.org/reference/reexports.html'>glimpse</a></span>(<span class='no'>res</span>)</div><div class='output co'>#&gt; Rows: 37,668
 #&gt; Columns: 20
 #&gt; $ name           &lt;chr&gt; "Afghanistan", "Afghanistan", "Afghanistan", "Afghanis…
 #&gt; $ topLevelDomain &lt;list&gt; [".af", ".af", ".af", ".af", ".af", ".af", ".af", ".a…

diff --git a/reference/covidtracker_data.html b/reference/covidtracker_data.html
@@ -183,7 +183,7 @@ district currently reporting that data.</p>
 #&gt;  1 2020-04-03 AK         157     5859      NA           15     3
 #&gt;  2 2020-04-03 AL        1432     8187      NA           NA    35
 #&gt;  3 2020-04-03 AR         704     8995      NA           NA    12
-#&gt;  4 2020-04-03 AS           0       20       6           NA     0
+#&gt;  4 2020-04-03 AS          NA       20       6           NA     0
 #&gt;  5 2020-04-03 AZ        1769    22904      NA          249    41
 #&gt;  6 2020-04-03 CA       10701    24599   59500           NA   237
 #&gt;  7 2020-04-03 CO        3728    16683      NA          710    97
